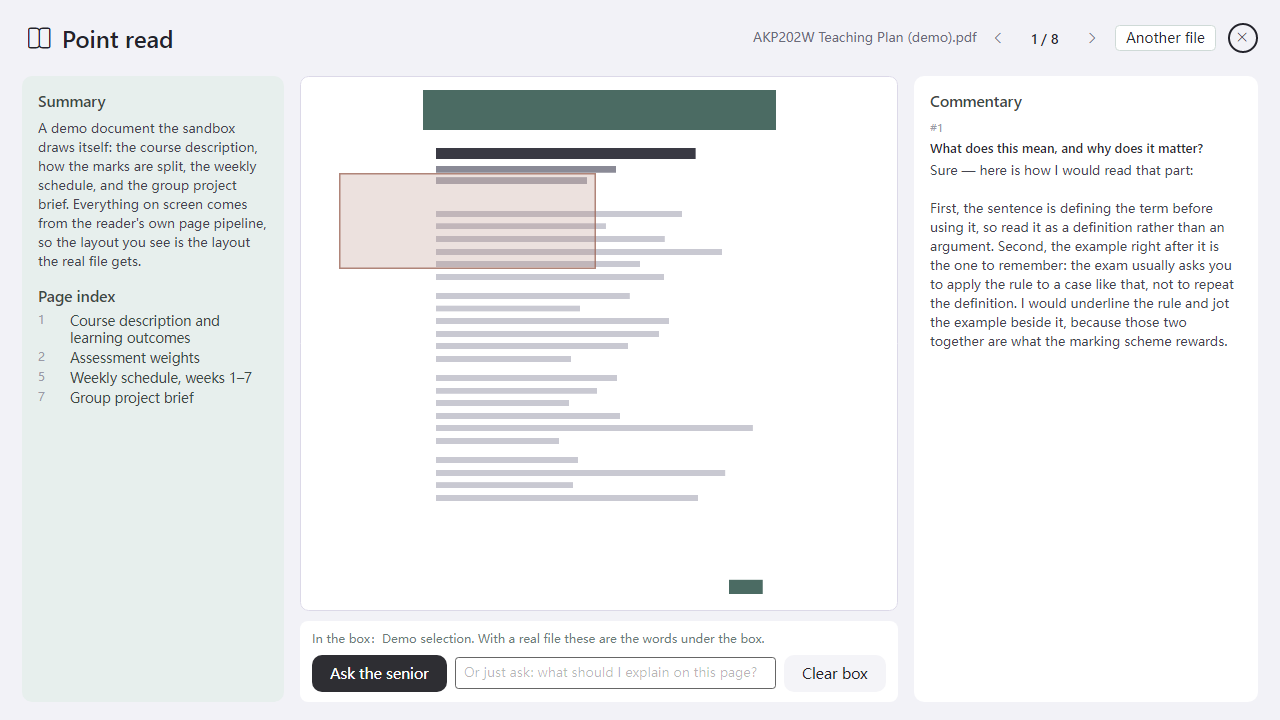
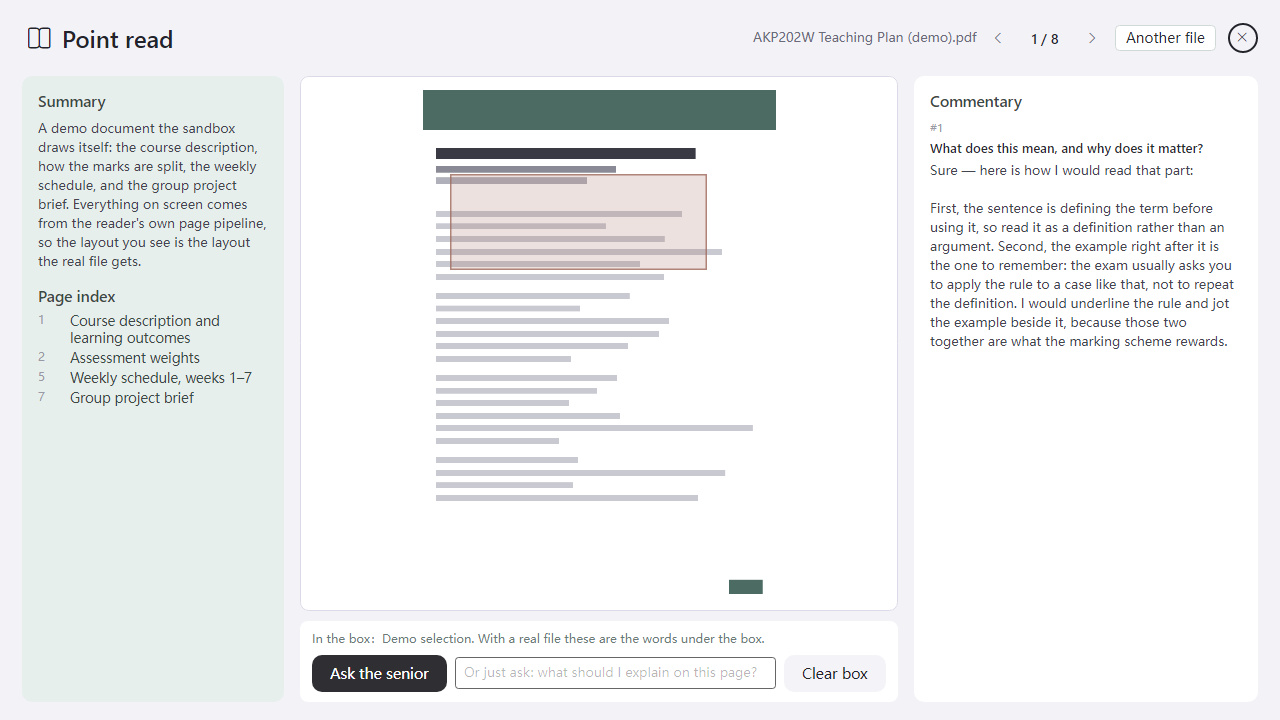
fix(reader): map the selection against the page, not the host
Reported from a real run: dragging a slightly larger box made the whole thing jump to the left, and the far right of the page could not be selected.

ToNormalised used PageImage.Bounds as if it were the host, while pointer positions are relative to PageHost. Under Stretch=Uniform Avalonia sizes the Image control to the drawn rectangle (measured: host 598x535, image at 110,0 sized 376.9x533), so the 111 px offset was dropped: fractions were compressed by 598/376.9 and shifted left. On release DrawCommitted redrew the box from those wrong numbers — the visible jump — and anything past the right edge clamped to 1, which is why the far right was unreachable.

The fix asks the control for its rectangle (origin + size) instead of recomputing letterboxing: TryPageRect feeds both ToNormalised and ToViewPoint.

New regression reader_selection_uses_the_page_rect_not_the_host drives real pointer events from 25%/30% to 95%/80%, asserts all four fractions and where the box was drawn, and first asserts that the page really is letterboxed (otherwise the test proves nothing). With the old mapping it reports 'left edge mapped to 0.343, expected 0.250'. Ui.Tests 75 -> 76, everything green.

Changed region(s): [[0.25, 0.2139, 0.5625, 0.3972]]

diff --git a/src/CogniCustos.Ui/Views/ReaderPage.axaml.cs b/src/CogniCustos.Ui/Views/ReaderPage.axaml.cs
@@ -117,45 +117,38 @@ public partial class ReaderPage : UserControl
 
     // ---------- page geometry ----------
     //
-    // The page is drawn with Stretch=Uniform, so the bitmap is letterboxed inside the host.
-    // These two conversions add/remove that letterbox; everything else works in fractions.
+    // Avalonia already letterboxes for us: with Stretch=Uniform the Image control's own Bounds
+    // *is* the drawn rectangle, offset inside the host. So the page rect in host coordinates is
+    // (image origin, image size) — no scaling maths, and no chance of mixing two coordinate
+    // spaces (which is what made an earlier version shift every selection to the left).
 
-    private (double Scale, double OffsetX, double OffsetY) Letterbox()
+    /// <summary>The drawn page, in the coordinates the pointer events use (the host).</summary>
+    private bool TryPageRect(out Rect page)
     {
-        if (PageImage.Source is not Bitmap bitmap) return (0, 0, 0);
+        page = default;
+        if (PageImage.Source is not Bitmap) return false;
 
-        var host = PageImage.Bounds;
-        var (bw, bh) = (bitmap.PixelSize.Width, bitmap.PixelSize.Height);
-        if (bw <= 0 || bh <= 0 || host.Width <= 0 || host.Height <= 0) return (0, 0, 0);
+        var origin = PageImage.TranslatePoint(new Point(0, 0), PageHost);
+        if (origin is null) return false;
 
-        var scale = Math.Min(host.Width / bw, host.Height / bh);
-        return (scale, (host.Width - bw * scale) / 2, (host.Height - bh * scale) / 2);
+        page = new Rect(origin.Value, PageImage.Bounds.Size);
+        return page.Width > 0.5 && page.Height > 0.5;
     }
 
     /// <summary>Window point → fraction of the page.</summary>
     private (double X, double Y) ToNormalised(Point point)
     {
-        if (PageImage.Source is not Bitmap bitmap) return (0, 0);
+        if (!TryPageRect(out var page)) return (0, 0);
 
-        var (scale, offsetX, offsetY) = Letterbox();
-        if (scale <= 0) return (0, 0);
-
-        var drawnWidth = bitmap.PixelSize.Width * scale;
-        var drawnHeight = bitmap.PixelSize.Height * scale;
-        return (Math.Clamp((point.X - offsetX) / drawnWidth, 0, 1),
-                Math.Clamp((point.Y - offsetY) / drawnHeight, 0, 1));
+        return (Math.Clamp((point.X - page.X) / page.Width, 0, 1),
+                Math.Clamp((point.Y - page.Y) / page.Height, 0, 1));
     }
 
     /// <summary>Fraction of the page → window point.</summary>
     private Point ToViewPoint(double x, double y)
     {
-        if (PageImage.Source is not Bitmap bitmap) return default;
-
-        var (scale, offsetX, offsetY) = Letterbox();
-        if (scale <= 0) return default;
-
-        return new Point(offsetX + x * bitmap.PixelSize.Width * scale,
-                         offsetY + y * bitmap.PixelSize.Height * scale);
+        if (!TryPageRect(out var page)) return default;
+        return new Point(page.X + x * page.Width, page.Y + y * page.Height);
     }
 
     private void DrawCommitted()

diff --git a/tools/CogniCustos.Ui.Tests/Program.cs b/tools/CogniCustos.Ui.Tests/Program.cs
@@ -1313,6 +1313,51 @@ internal static class Program
             Check(tile is not null, "the reader tile is missing from the drawer");
         });
 
+        // The page is letterboxed inside its host, so pointer coordinates must be mapped
+        // against the *drawn page*, not against the host. Getting this wrong shifts every
+        // selection to the left and makes the right edge unreachable (reported from a real
+        // run: "the box jumps left and the right side cannot be selected").
+        Test("reader_selection_uses_the_page_rect_not_the_host", (vm, w) =>
+        {
+            vm.ClosePanels();
+            vm.Reader.OpenPreview("demo.pdf");
+            Pump();
+
+            var host = w.GetVisualDescendants().OfType<Border>().First(b => b.Name == "PageHost");
+            var image = w.GetVisualDescendants().OfType<Image>().First(i => i.Name == "PageImage");
+            var hostOrigin = host.TranslatePoint(new Point(0, 0), w)!.Value;
+            var pageOrigin = image.TranslatePoint(new Point(0, 0), host)!.Value;
+            var page = new Rect(new Point(hostOrigin.X + pageOrigin.X, hostOrigin.Y + pageOrigin.Y),
+                image.Bounds.Size);
+
+            Check(page.Width < host.Bounds.Width - 20,
+                "the page is not letterboxed here, so this test would not catch the bug it covers");
+
+            var from = new Point(page.X + page.Width * 0.25, page.Y + page.Height * 0.30);
+            var to = new Point(page.X + page.Width * 0.95, page.Y + page.Height * 0.80);
+
+            w.MouseDown(from, MouseButton.Left);
+            w.MouseMove(new Point((from.X + to.X) / 2, (from.Y + to.Y) / 2));
+            w.MouseMove(to);
+            w.MouseUp(to, MouseButton.Left);
+            Pump();
+
+            Check(vm.Reader.HasSelection, "the drag produced no selection");
+
+            var (x0, y0, x1, y1) = vm.Reader.Selection;
+            Check(Math.Abs(x0 - 0.25) < 0.02, $"left edge mapped to {x0:F3}, expected 0.250");
+            Check(Math.Abs(y0 - 0.30) < 0.02, $"top edge mapped to {y0:F3}, expected 0.300");
+            Check(Math.Abs(x1 - 0.95) < 0.02, $"right edge mapped to {x1:F3}, expected 0.950 — the far right must be reachable");
+            Check(Math.Abs(y1 - 0.80) < 0.02, $"bottom edge mapped to {y1:F3}, expected 0.800");
+
+            // the box has to be drawn where the page is, not somewhere to the left
+            var band = w.GetVisualDescendants().OfType<Avalonia.Controls.Shapes.Rectangle>().First(r => r.Name == "SelectionBand");
+            var drawnLeft = Canvas.GetLeft(band) + hostOrigin.X;
+            var expectedLeft = page.X + page.Width * 0.25;
+            Check(Math.Abs(drawnLeft - expectedLeft) < 1.5,
+                $"the box was drawn at x={drawnLeft:F1}, expected {expectedLeft:F1}");
+        });
+
         Console.WriteLine(_failures == 0 ? "ALL PASS" : $"{_failures} FAILURE(S)");
         return _failures == 0 ? 0 : 1;
     }

diff --git a/docs/IMPLEMENTATION-LOG.md b/docs/IMPLEMENTATION-LOG.md
@@ -1320,3 +1320,26 @@ samples/CogniCustos.Sample/bin/Debug/net8.0/CogniCustos.Sample.exe --reader-chec
 - 讲评记录只在本窗口内，关掉就没了（没有落库，也没有进知识库）；
 - 没有"把这段讲评存成笔记"的入口。
 
+
+### 8. 真机反馈修掉的第一处：框选坐标（2026-11-25 晚）
+
+用户实测：**框稍微拖大一点，整块往左闪一下，靠右的区域框不住。**
+
+原因不是渲染，是坐标空间混了。`ToNormalised` 把 `PageImage.Bounds` 当成"宿主尺寸"，
+但指针坐标 `e.GetPosition(PageHost)` 是相对 `PageHost` 的。Avalonia 在 `Stretch=Uniform` 下
+**把 Image 控件本身摆成绘制后的矩形**（实测：host 598×535，image 在 110,0 处、376.9×533），
+于是丢掉的是图片在宿主里的那 111 px 偏移：
+
+- 归一化被压缩 598 / 376.9 ≈ **1.59 倍**并整体左移；
+- 松手后 `DrawCommitted()` 又用这份错误坐标重画框 → 看到"整块往左闪一下"；
+- 右边缘早就越过 1、被 clamp 到 1 → 最右边永远框不住。
+
+修法：不再自己算 letterbox，直接问控件要矩形——`TryPageRect()` = `(PageImage 原点, PageImage 尺寸)`，
+`ToNormalised` / `ToViewPoint` 都用它。
+
+回归：`reader_selection_uses_the_page_rect_not_the_host`——用真指针（MouseDown/Move/Up）从页面
+25%/30% 拖到 95%/80%，断言四个归一化数值，并断言框的落点；再断言页面确实在宿主里居中留边
+（否则这条测试抓不到东西）。把 `TryPageRect` 换回旧的宿主写法时，它会报
+`left edge mapped to 0.343, expected 0.250`——正是用户看到的左移量。修复后 075 → 076 条断言。
+
+顺带确认：截图 `docs/ui-reader.png` 里那个框，修复前是探出页面左边界的，现在落在页内。

diff --git a/docs/UI-SANDBOX.md b/docs/UI-SANDBOX.md
@@ -440,3 +440,5 @@ VS Code 里对应 `shots-compare` 任务。第 4、5 个参数是草图的裁切
 
 
 **第 5 轮**：画布改 1280×720（16:9）。**第 4 轮**：等比缩放 + 文案资源化。**第 3 轮**：四个 bug + 回归工程。
+
+**2026-11-25 修**：选区坐标改为按 PageImage 的 origin+size（TryPageRect），不再自己算 letterbox；docs/ui-reader.png 已按修复后重出。
